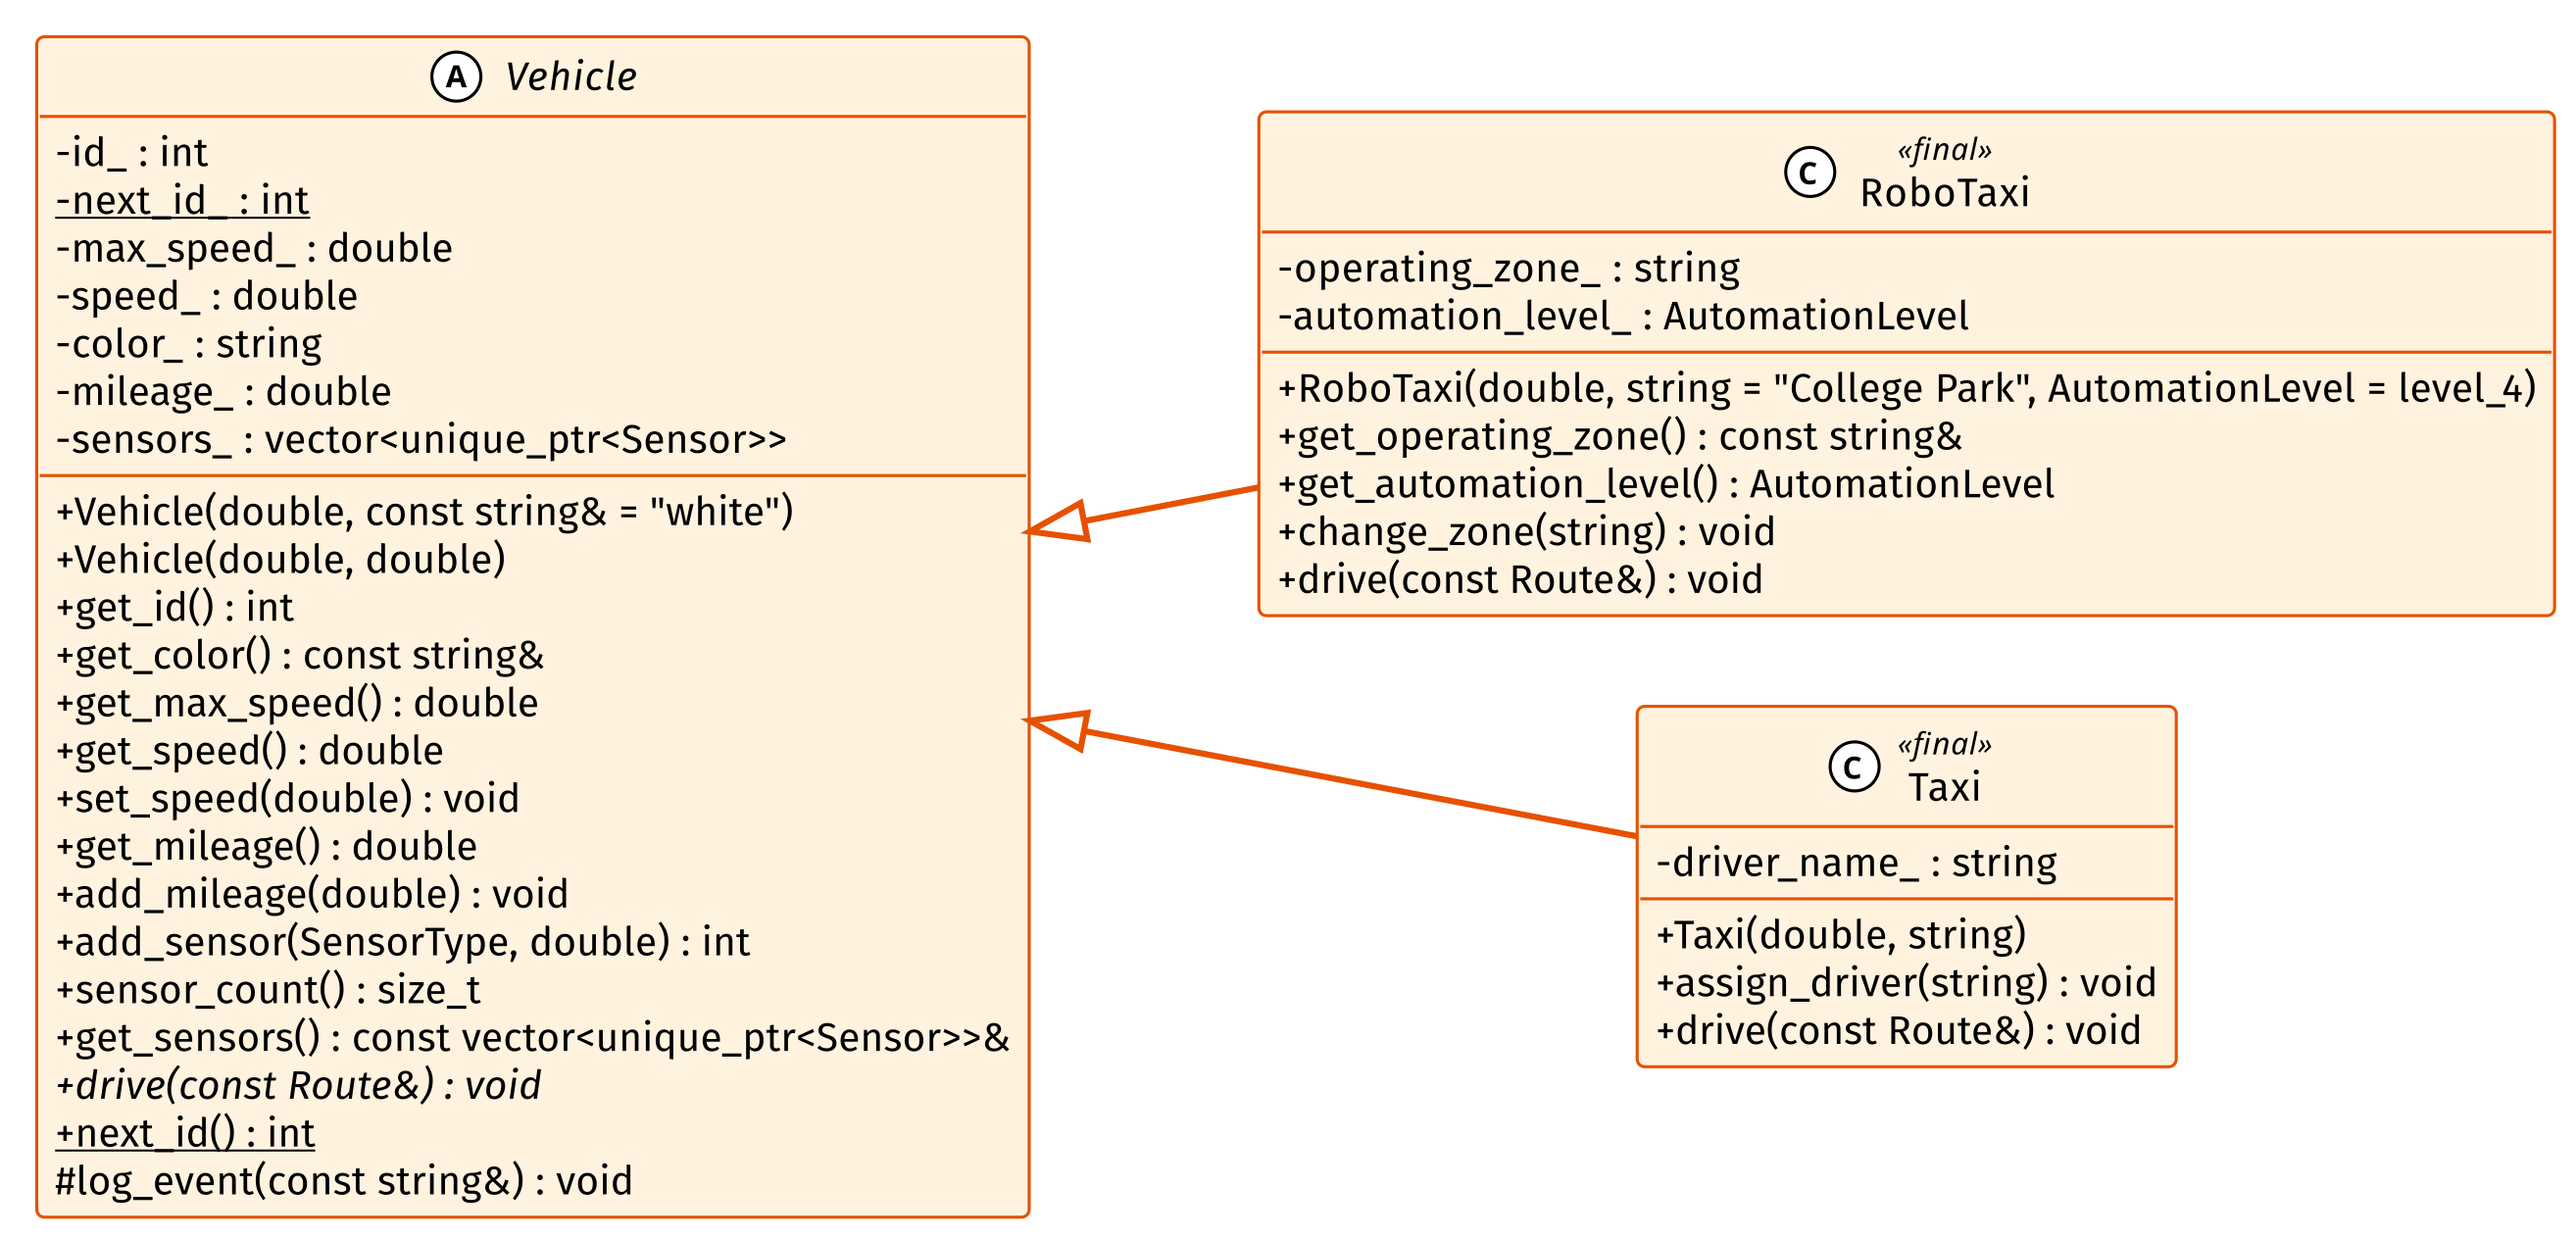
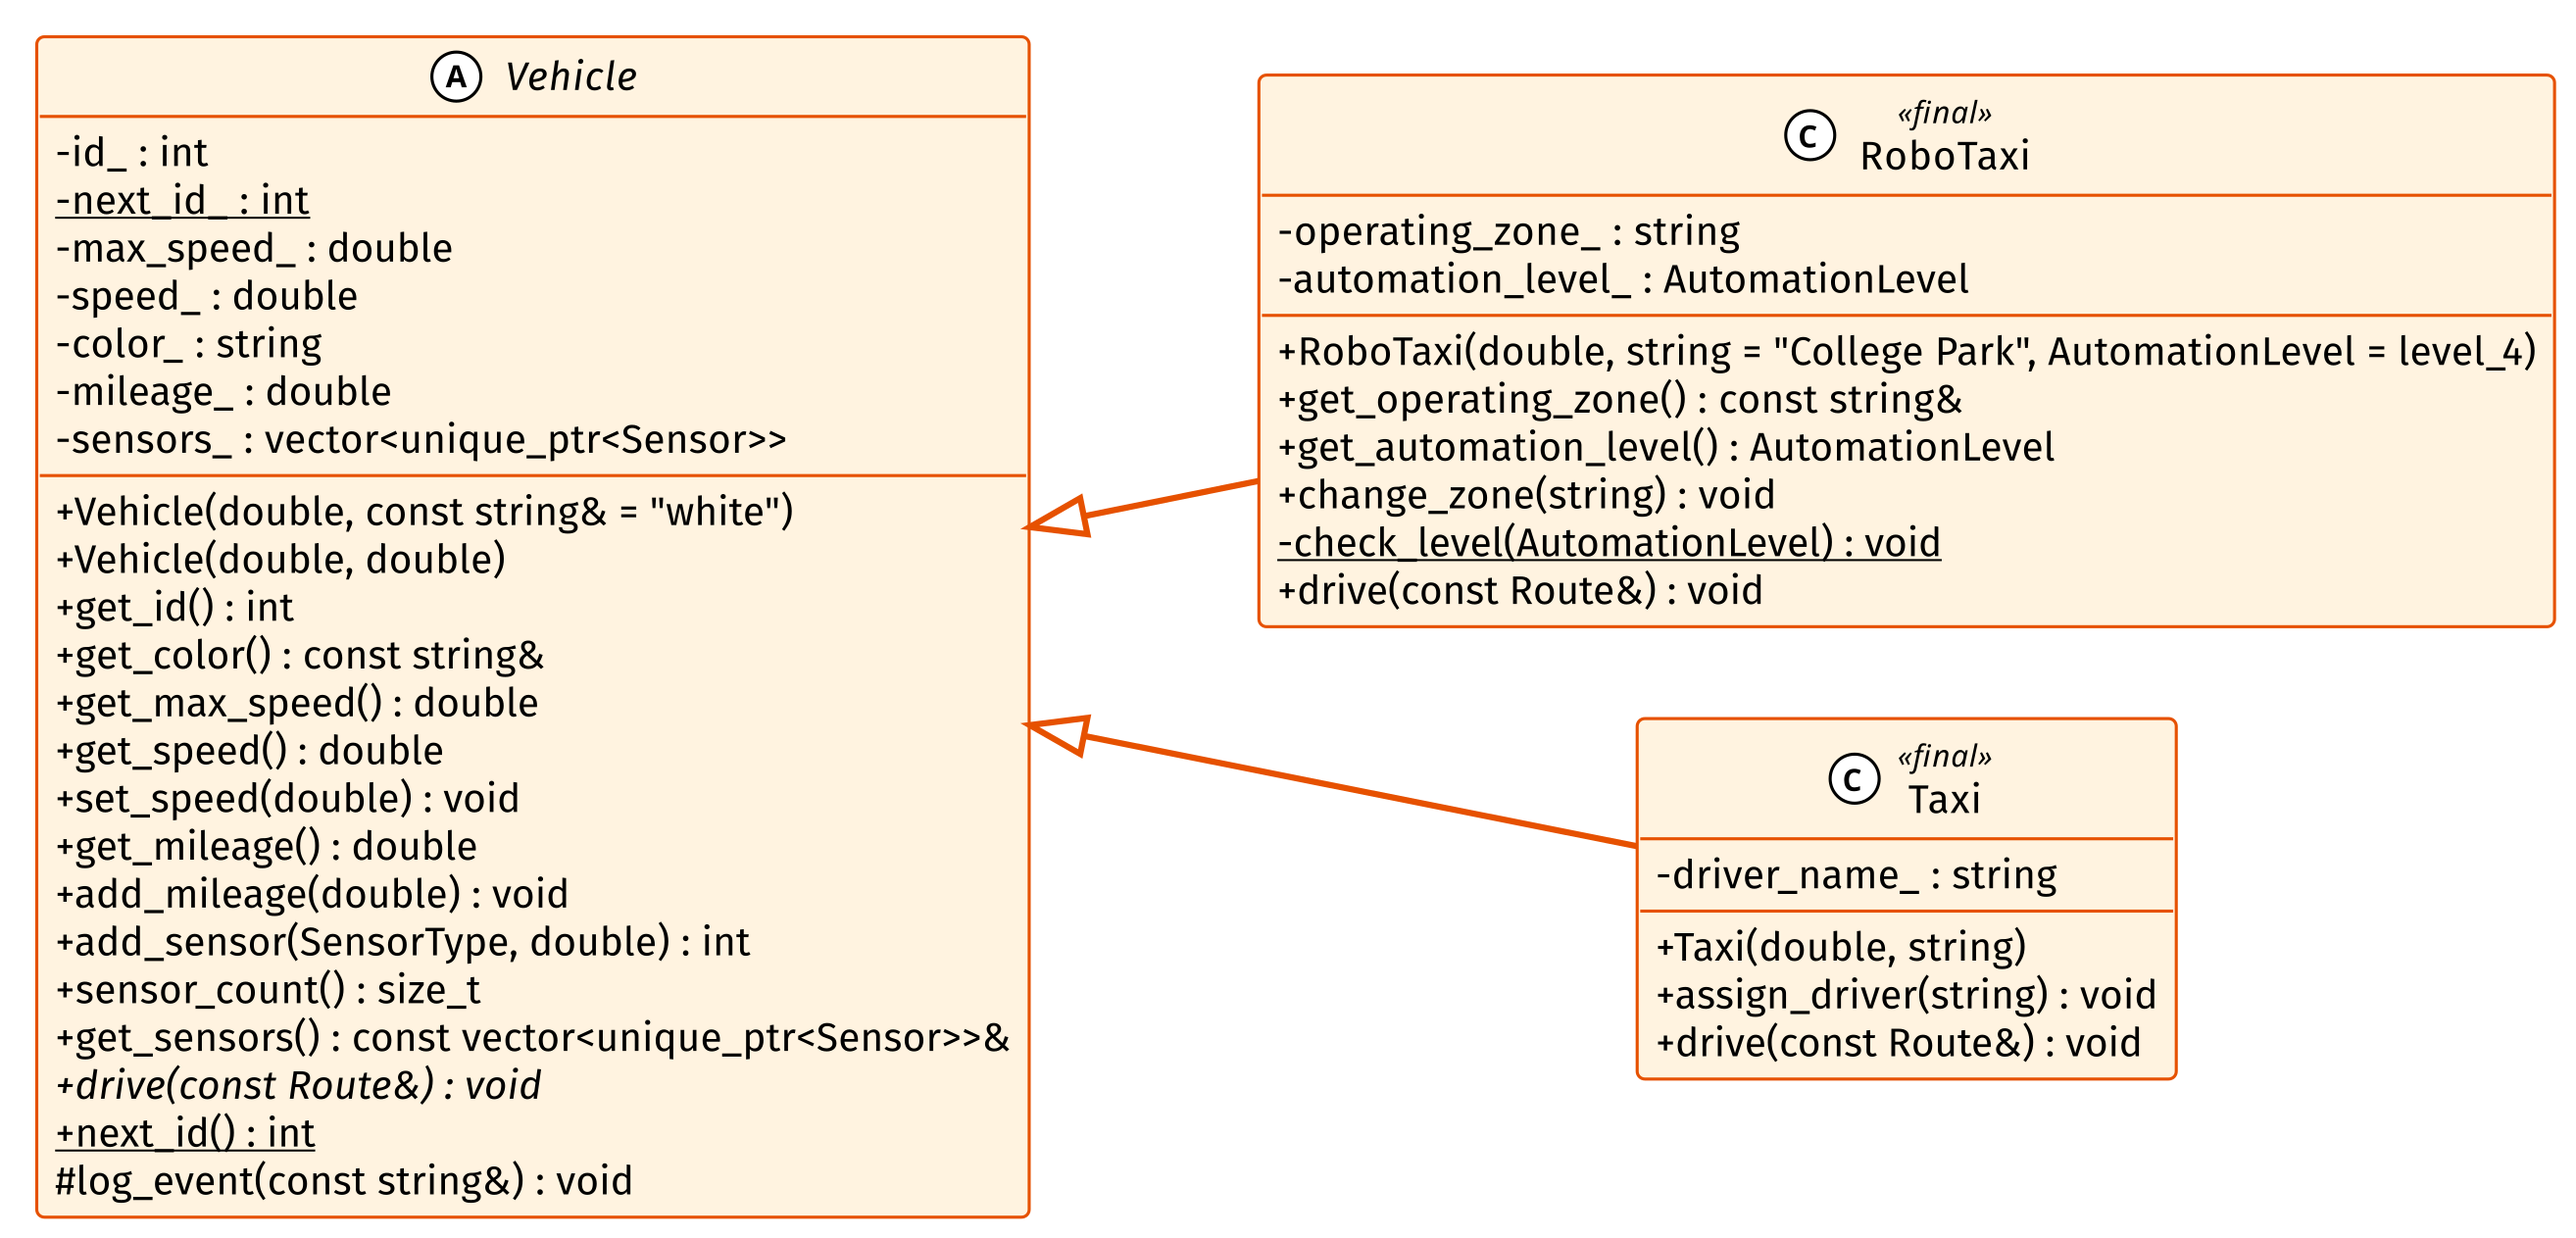
L9: check_level in the RoboTaxi box

diff --git a/docs/source/lectures/lecture9/l9_lecture.rst b/docs/source/lectures/lecture9/l9_lecture.rst
@@ -1214,7 +1214,7 @@ A RoboTaxi and a Taxi Are Vehicles
 """"""""""""""""""""""""""""""""""
 
 .. figure:: /_static/images/l9/model_l9_inheritance_members.png
-   :alt: A UML class diagram with three boxes, each listing its members; every box and line is orange. Each class name has a circled letter before it: A for the abstract Vehicle, and C for a class, on RoboTaxi and Taxi. On the left, Vehicle, its name in italics, has the data members minus id_ : int, the underlined minus next_id_ : int, minus max_speed_ : double, minus speed_ : double, minus color_ : string, minus mileage_ : double and minus sensors_ : vector of unique_ptr of Sensor, and the methods plus Vehicle(double, const string& = "white"), plus Vehicle(double, double), plus get_id() : int, plus get_color() : const string&, plus get_max_speed() : double, plus get_speed() : double, plus set_speed(double) : void, plus get_mileage() : double, plus add_mileage(double) : void, plus add_sensor(SensorType, double) : int, plus sensor_count() : size_t, plus get_sensors() : const vector of unique_ptr of Sensor&, plus drive(const Route&) : void in italics, the underlined plus next_id() : int, and the protected hash log_event(const string&) : void. On the right, RoboTaxi, marked final, with minus operating_zone_ : string, minus automation_level_ : AutomationLevel, plus RoboTaxi(double, string = "College Park", AutomationLevel = level_4), plus get_operating_zone() : const string&, plus get_automation_level() : AutomationLevel, plus change_zone(string) : void and plus drive(const Route&) : void, and below it Taxi, marked final, with minus driver_name_ : string, plus Taxi(double, string), plus assign_driver(string) : void and plus drive(const Route&) : void. Each joins Vehicle by a line with a hollow triangle at Vehicle.
+   :alt: A UML class diagram with three boxes, each listing its members; every box and line is orange. Each class name has a circled letter before it: A for the abstract Vehicle, and C for a class, on RoboTaxi and Taxi. On the left, Vehicle, its name in italics, has the data members minus id_ : int, the underlined minus next_id_ : int, minus max_speed_ : double, minus speed_ : double, minus color_ : string, minus mileage_ : double and minus sensors_ : vector of unique_ptr of Sensor, and the methods plus Vehicle(double, const string& = "white"), plus Vehicle(double, double), plus get_id() : int, plus get_color() : const string&, plus get_max_speed() : double, plus get_speed() : double, plus set_speed(double) : void, plus get_mileage() : double, plus add_mileage(double) : void, plus add_sensor(SensorType, double) : int, plus sensor_count() : size_t, plus get_sensors() : const vector of unique_ptr of Sensor&, plus drive(const Route&) : void in italics, the underlined plus next_id() : int, and the protected hash log_event(const string&) : void. On the right, RoboTaxi, marked final, with minus operating_zone_ : string, minus automation_level_ : AutomationLevel, plus RoboTaxi(double, string = "College Park", AutomationLevel = level_4), plus get_operating_zone() : const string&, plus get_automation_level() : AutomationLevel, plus change_zone(string) : void, the underlined minus check_level(AutomationLevel) : void and plus drive(const Route&) : void, and below it Taxi, marked final, with minus driver_name_ : string, plus Taxi(double, string), plus assign_driver(string) : void and plus drive(const Route&) : void. Each joins Vehicle by a line with a hollow triangle at Vehicle.
    :align: center
    :width: 100%
 
